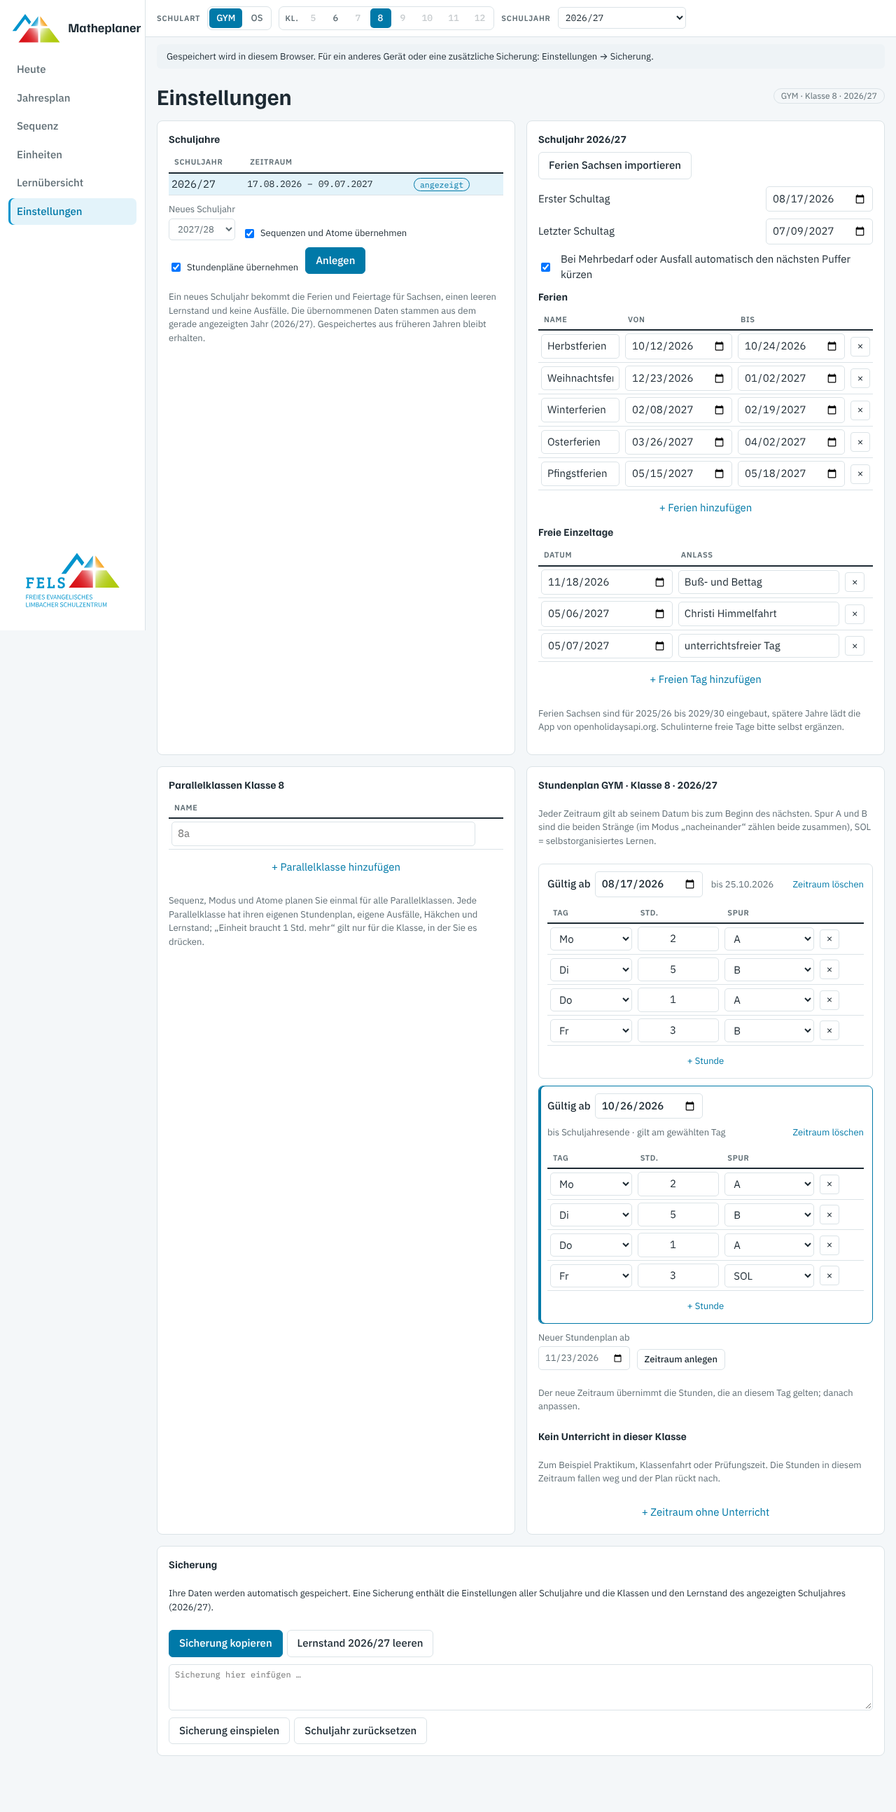
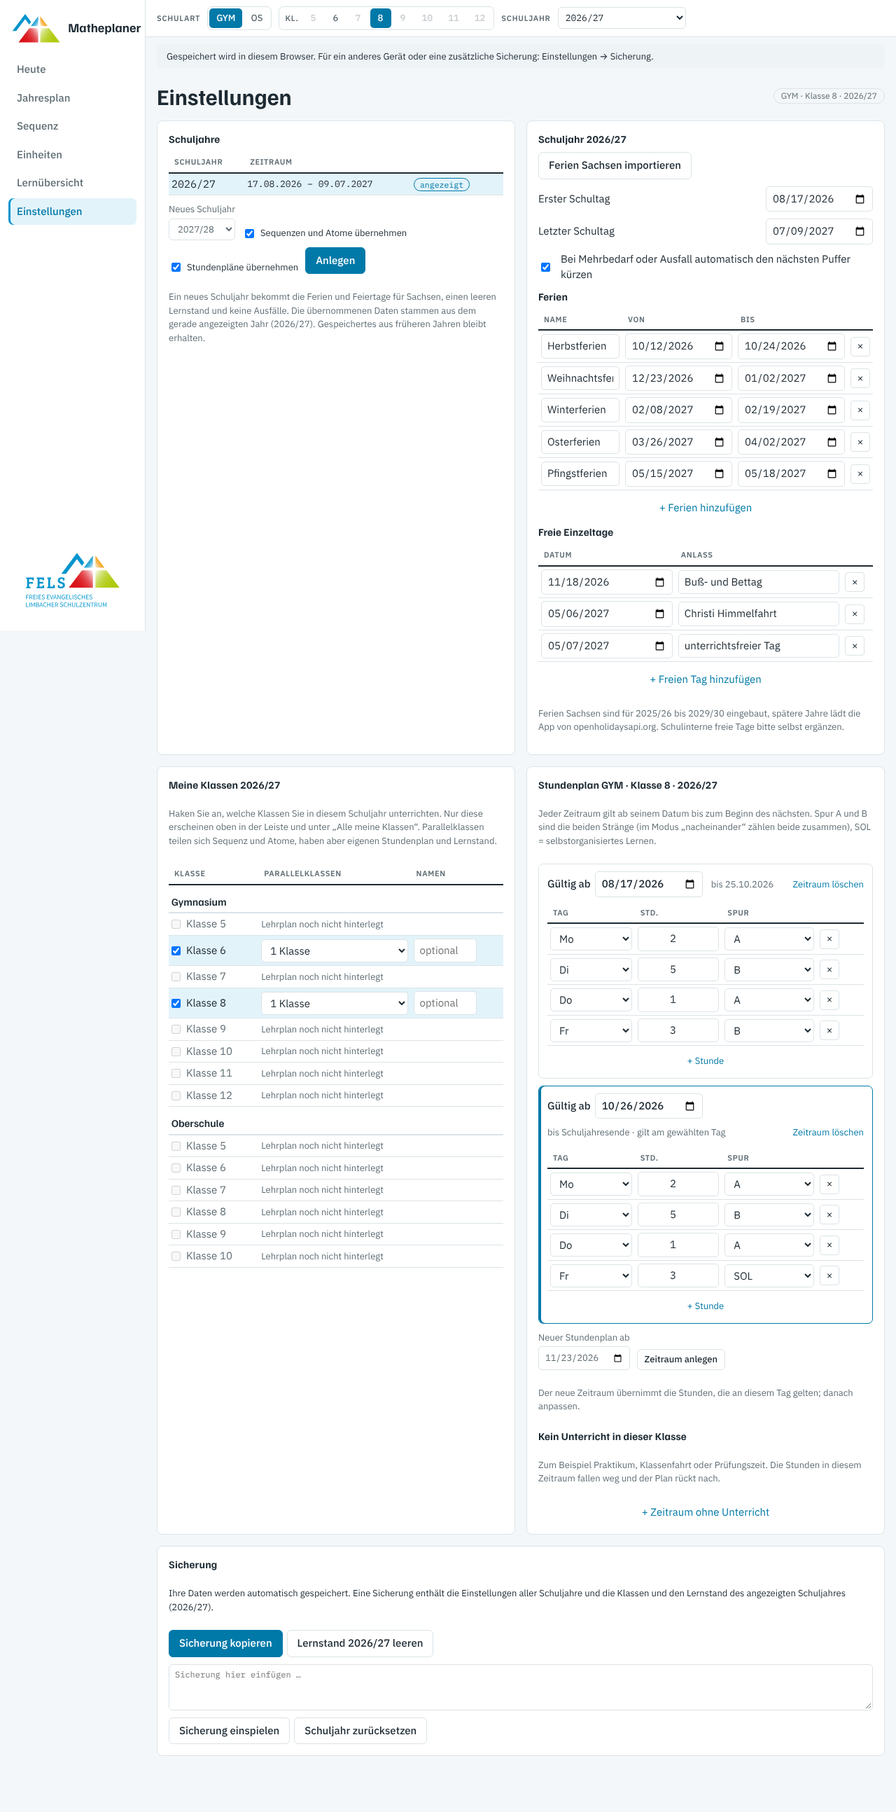
Einstellungen: Meine Klassen je Schuljahr
- Karte "Meine Klassen": Klassenstufen ankreuzen, je Stufe eine oder zwei
  Parallelklassen mit Namen; ersetzt die Parallelklassen-Karte
- Leiste oben bietet nur diese Klassen an, die übrigen sind ausgegraut;
  "Alle meine Klassen" zeigt alle Parallelklassen dieser Klassen
- Ohne Festlegung gelten alle Klassen mit Lehrplan; ein neues Schuljahr
  übernimmt die Auswahl; Hinweis mit Link, wenn keine Klasse gewählt ist
- Tests ergänzt

Claude-Session: https://claude.ai/code/session_01LsRvvx4N56vA7fn2jwzqzo

Changed region(s): [[0.1875, 0.4329, 0.5625, 0.7112]]

diff --git a/dist/app.js b/dist/app.js
@@ -92,13 +92,22 @@ UI.year = pickYear();
 const resetYearState = () => CLASSES.forEach(k => { S.cls[k] = defaultClass(k); GIDS.forEach(gid => { S.eng[gkey(k, gid)] = defaultEngine(); }); });
 resetYearState();
 /* Gewählte Klasse, sofern sie zur gewählten Schulart gehört; sonst null (z. B. Oberschule ohne Lehrplan). */
-const curClass = () => D.classes[UI.cls] && D.classes[UI.cls].type === UI.type ? UI.cls : null;
+const mineList = () => { const l = cal().classes; return Array.isArray(l) ? CLASSES.filter(k => l.includes(k)) : CLASSES.slice(); };
+const isMine = k => mineList().includes(k);
+/* Gewählte Klasse, sofern sie zur gewählten Schulart gehört und zu „Meine Klassen“; sonst null. */
+const curClass = () => D.classes[UI.cls] && D.classes[UI.cls].type === UI.type && isMine(UI.cls) ? UI.cls : null;
+/* Nach Änderungen an „Meine Klassen“ oder Schuljahr eine gültige Auswahl herstellen. */
+function fixSelection() {
+  if (curClass()) return;
+  const m = mineList(), k = m.find(c => D.classes[c].type === UI.type) || m[0];
+  if (k) { UI.cls = k; UI.type = D.classes[k].type; }
+}
 UI.gid = {};
 try { UI.gid = JSON.parse(localStorage.getItem("mp-gid") || "{}") || {}; } catch (e) {}
 /* Gewählte Parallelklasse als Schlüssel "kl8.a"; null, wenn keine Klasse gewählt ist. */
 function curG() { const k = curClass(); if (!k) return null; const id = UI.gid[k]; return gkey(k, S.cls[k].groups.some(x => x.id === id) ? id : S.cls[k].groups[0].id); }
 const hasLessons = g => (grp(g).tt || []).some(v => v.lessons && v.lessons.length);
-const myGroups = () => CLASSES.flatMap(groupsOf).filter(hasLessons);
+const myGroups = () => mineList().flatMap(groupsOf);
 const groupName = g => { const G = grp(g), C = S.cls[ck(g)]; return G.name || (C.groups.length > 1 ? `${D.classes[ck(g)].label} ${G.id}` : D.classes[ck(g)].label); };
 const fullLabel = g => `${(TYPES[D.classes[ck(g)].type] || {}).short || ""} · ${groupName(g.includes(".") ? g : gkey(g, "a"))}`;
 
@@ -349,7 +358,7 @@ function switchYear(id, remember) {
   for (const n of YEAR_DOCS) dirty[n] = false;
   UI.year = id; UI.confirm = null; UI.reveal = {}; undoStack = null;
   resetYearState();
-  touch(); subscribeYear(); render();
+  fixSelection(); touch(); subscribeYear(); render();
 }
 async function initDb() {
   try { db = window.claude && window.claude.use ? await window.claude.use("db") : null; } catch (e) { db = null; }
@@ -494,6 +503,7 @@ async function createYear(id, copySeq, copyTT) {
   const Y = r ? { id, start: r.start, end: r.end, holidays: r.holidays, free: r.free, source: r.source }
     : { id, start: `${y0}-08-15`, end: `${y0 + 1}-07-15`, holidays: [], free: [] };
   Y.engineStart = Y.start;
+  if (Array.isArray(cal().classes)) Y.classes = cal().classes.slice();
   const prev = { cls: clone(S.cls) };
   S.settings.years.push(Y); sortYears(S.settings.years); save("settings");
   UI.busy = false;
@@ -545,17 +555,23 @@ function unitLink(k, code, label) {
 }
 /* Kontext-Hinweis in den Überschriften; umgeschaltet wird oben in der Leiste. */
 function clsTabs() { const k = curG(); return `<span class="badge">${esc(k ? fullLabel(k) : (TYPES[UI.type] || {}).label || "")} · ${esc(yearLabel(cal().id))}</span>`; }
+function noClassMsg() {
+  const T = TYPES[UI.type] || {}, has = CLASSES.some(k => D.classes[k].type === UI.type);
+  if (!mineList().length) return `Sie haben für ${esc(yearLabel(cal().id))} noch keine Klassen festgelegt. <a href="#einstellungen">Einstellungen → Meine Klassen</a>`;
+  if (has) return `Sie unterrichten ${esc(yearLabel(cal().id))} keine Klasse der Schulart ${esc(T.label || "")}. <a href="#einstellungen">Einstellungen → Meine Klassen</a>`;
+  return `Für ${esc(T.label || "diese Schulart")} ist noch kein Lehrplan hinterlegt. Wählen Sie oben eine andere Schulart.`;
+}
 function noClassView(title) {
   const T = TYPES[UI.type] || {};
   return `<section><div class="vhead"><h1>${esc(title)}</h1>${clsTabs()}</div>
-    <div class="card"><p>Für ${esc(T.label || "diese Schulart")} ist noch kein Lehrplan hinterlegt. Wählen Sie oben eine andere Schulart oder Klasse.</p></div></section>`;
+    <div class="card"><p>${noClassMsg()}</p></div></section>`;
 }
 function renderCtx() {
   const el = document.getElementById("ctx"); if (!el) return;
   const T = TYPES[UI.type] || { grades: [] }, cur = curClass();
   el.innerHTML = `<span class="ctxl">Schulart</span><div class="seg small" role="group" aria-label="Schulart">${Object.entries(TYPES).map(([t, x]) => `<button type="button" aria-pressed="${UI.type === t}" data-act="type" data-v="${t}" title="${esc(x.label)}">${esc(x.short)}</button>`).join("")}</div>
     <div class="seg small grades" role="group" aria-label="Klassenstufe"><span class="lbl">Kl.</span>${T.grades.map(g => { const k = classFor(UI.type, g);
-      return `<button type="button" aria-pressed="${!!k && k === cur}" ${k ? `data-act="cls" data-k="${k}" title="${esc(D.classes[k].label)}"` : `disabled title="Klasse ${g}: Lehrplan noch nicht hinterlegt"`}>${g}</button>`; }).join("")}</div>
+      return `<button type="button" aria-pressed="${!!k && k === cur}" ${k && isMine(k) ? `data-act="cls" data-k="${k}" title="${esc(D.classes[k].label)}"` : k ? `disabled title="Klasse ${g} gehört nicht zu Ihren Klassen (Einstellungen → Meine Klassen)"` : `disabled title="Klasse ${g}: Lehrplan noch nicht hinterlegt"`}>${g}</button>`; }).join("")}</div>
     ${cur && S.cls[cur].groups.length > 1 ? `<div class="seg small" role="group" aria-label="Parallelklasse">${groupsOf(cur).map(g => `<button type="button" aria-pressed="${g === curG()}" data-act="grp" data-g="${g}">${esc(groupName(g))}</button>`).join("")}</div>` : ""}
     <span class="ctxl">Schuljahr</span><select id="yearsel" aria-label="Schuljahr">${S.settings.years.map(y => `<option value="${esc(y.id)}" ${y.id === cal().id ? "selected" : ""}>${esc(yearLabel(y.id))}</option>`).join("")}<option value="__new">+ Neues Schuljahr …</option></select>`;
 }
@@ -612,7 +628,7 @@ function viewToday() {
       <div class="seg small">${[["one", curG() ? fullLabel(curG()) : "Gewählte Klasse"], ["all", "Alle meine Klassen"]].map(([v, l]) => `<button type="button" aria-selected="${(v === "all") === UI.todayAll}" data-act="todaycls" data-v="${v}">${esc(l)}</button>`).join("")}</div>
     </div>
     ${show.length === 1 ? todayTiles(show[0], d) : ""}
-    ${show.length ? `<div class="tgrid ${show.length === 1 ? "one" : ""}">${show.map(k => todayCard(k, d)).join("")}</div>` : `<div class="card"><p>Für ${esc((TYPES[UI.type] || {}).label || "diese Schulart")} ist noch kein Lehrplan hinterlegt.</p></div>`}
+    ${show.length ? `<div class="tgrid ${show.length === 1 ? "one" : ""}">${show.map(k => todayCard(k, d)).join("")}</div>` : `<div class="card"><p>${noClassMsg()}</p></div>`}
   </section>`;
 }
 /* Kennzahlen der gewählten Klasse: aktuelle Einheit, heute fällig, ø Abruf, Reserve im Schuljahr. */
@@ -891,14 +907,21 @@ function yearOptions() {
   for (let y = y0 - 1; y <= y0 + 4; y++) { const id = `${y}-${String(y + 1).slice(2)}`; if (!have.has(id)) out.push(id); }
   return out;
 }
-function groupsCard(k) {
-  const C = S.cls[k], c = D.classes[k];
-  const rows = C.groups.map(G => `<tr><td><input data-act="gname" data-g="${gkey(k, G.id)}" value="${esc(G.name)}" placeholder="${esc(c.short + G.id)}" aria-label="Name der Parallelklasse"></td>
-    <td>${G.id !== "a" ? (UI.confirm === "gdel-" + k ? `<span class="confirm small">Parallelklasse mit Stundenplan und Lernstand entfernen?<button type="button" class="btn danger sm" data-act="gdel" data-k="${k}">Entfernen</button><button type="button" class="btn ghost sm" data-act="confirm" data-v="">Nein</button></span>` : `<button type="button" class="mini del" data-act="confirm" data-v="gdel-${k}" aria-label="Parallelklasse entfernen">×</button>`) : ""}</td></tr>`).join("");
-  return `<div class="card"><h3>Parallelklassen ${esc(c.label)}</h3>
-    <div class="tscroll"><table class="form"><thead><tr><th>Name</th><th></th></tr></thead><tbody>${rows}</tbody></table></div>
-    ${C.groups.length < GIDS.length ? `<button type="button" class="linkbtn" data-act="gadd" data-k="${k}">+ Parallelklasse hinzufügen</button>` : ""}
-    <p class="small muted">Sequenz, Modus und Atome planen Sie einmal für alle Parallelklassen. Jede Parallelklasse hat ihren eigenen Stundenplan, eigene Ausfälle, Häkchen und Lernstand; „Einheit braucht 1 Std. mehr“ gilt nur für die Klasse, in der Sie es drücken.</p></div>`;
+function myClassesCard() {
+  const Y = cal(), mine = mineList();
+  const rows = Object.entries(TYPES).map(([t, T]) => `<tr class="mtype"><td colspan="3">${esc(T.label)}</td></tr>` + T.grades.map(g => {
+    const k = classFor(t, g);
+    if (!k) return `<tr class="mna"><td><label class="chk"><input type="checkbox" disabled> Klasse ${g}</label></td><td colspan="2" class="small muted">Lehrplan noch nicht hinterlegt</td></tr>`;
+    const on = mine.includes(k), C = S.cls[k], n = C.groups.length;
+    const names = on ? C.groups.map(G => `<input data-act="gname" data-g="${gkey(k, G.id)}" value="${esc(G.name)}" placeholder="${esc(n > 1 ? D.classes[k].short + G.id : "optional")}" aria-label="Name der Parallelklasse ${esc(G.id)}">`).join("") : "";
+    const confirm = UI.confirm === "gdel-" + k ? `<span class="confirm small">${esc(groupName(gkey(k, C.groups[1].id)))} mit Stundenplan und Lernstand entfernen?<button type="button" class="btn danger sm" data-act="gdel" data-k="${k}">Entfernen</button><button type="button" class="btn ghost sm" data-act="confirm" data-v="">Nein</button></span>` : "";
+    return `<tr class="${on ? "on" : ""}"><td><label class="chk"><input type="checkbox" data-act="mine" data-k="${k}" ${on ? "checked" : ""}> ${esc(D.classes[k].label)}</label></td>
+      <td>${on ? `<select data-act="gcount" data-k="${k}" aria-label="Anzahl Parallelklassen"><option value="1" ${n === 1 ? "selected" : ""}>1 Klasse</option><option value="2" ${n === 2 ? "selected" : ""}>2 Parallelklassen</option></select>` : ""}</td>
+      <td><div class="gnames">${names}</div>${confirm}</td></tr>`;
+  }).join("")).join("");
+  return `<div class="card myclasses"><h3>Meine Klassen ${esc(yearLabel(Y.id))}</h3>
+    <p class="small muted">Haken Sie an, welche Klassen Sie in diesem Schuljahr unterrichten. Nur diese erscheinen oben in der Leiste und unter „Alle meine Klassen“. Parallelklassen teilen sich Sequenz und Atome, haben aber eigenen Stundenplan und Lernstand.</p>
+    <div class="tscroll"><table class="form"><thead><tr><th>Klasse</th><th>Parallelklassen</th><th>Namen</th></tr></thead><tbody>${rows}</tbody></table></div></div>`;
 }
 function ttCard(k) {
   const C = grp(k), vs = sortTT(C.tt), Y = cal();
@@ -959,7 +982,8 @@ function viewSettings() {
         <h3>Freie Einzeltage</h3><div class="tscroll"><table class="form"><thead><tr><th>Datum</th><th>Anlass</th><th></th></tr></thead><tbody>${fr}</tbody></table></div>
         <button type="button" class="linkbtn" data-act="freeadd">+ Freien Tag hinzufügen</button>
         <p class="small muted">Ferien Sachsen sind für 2025/26 bis 2029/30 eingebaut, spätere Jahre lädt die App von openholidaysapi.org. Schulinterne freie Tage bitte selbst ergänzen.</p></div>
-      ${k ? groupsCard(ck(k)) + ttCard(k) : `<div class="card"><h3>Stundenplan</h3><p class="small muted">Für ${esc((TYPES[UI.type] || {}).label || "diese Schulart")} ist noch kein Lehrplan hinterlegt.</p></div>`}
+      ${myClassesCard()}
+      ${k ? ttCard(k) : `<div class="card"><h3>Stundenplan</h3><p class="small muted">Für ${esc((TYPES[UI.type] || {}).label || "diese Schulart")} ist noch kein Lehrplan hinterlegt.</p></div>`}
     </div>
     <div class="card"><h3>Sicherung</h3>
       <p class="small">Ihre Daten werden automatisch gespeichert. Eine Sicherung enthält die Einstellungen aller Schuljahre und die Klassen und den Lernstand des angezeigten Schuljahres (${esc(yearLabel(Y.id))}).</p>
@@ -1032,6 +1056,21 @@ window.addEventListener("hashchange", () => {
 });
 
 /* ---------------- events ---------------- */
+function addGroup(k) {
+  const C = S.cls[k]; if (C.groups.length >= GIDS.length) return;
+  const id = GIDS.find(x => !C.groups.some(G => G.id === x)), base = C.groups[0];
+  const snap = snapshotFor(k);
+  C.groups.push(newGroup(id, "", base.tt.map(v => ({ id: uid(), frm: v.frm, lessons: cloneLessons(v.lessons) }))));
+  S.eng[gkey(k, id)] = defaultEngine();
+  UI.gid[k] = id; try { localStorage.setItem("mp-gid", JSON.stringify(UI.gid)); } catch (e) {}
+  undoStack = snap; commit(k, { eng: true }); toast("Parallelklasse angelegt. Der Stundenplan ist kopiert, bitte anpassen.", true);
+}
+function removeGroup(k) {
+  const C = S.cls[k]; if (C.groups.length < 2) return;
+  const snap = snapshotFor(k), gone = C.groups.pop();
+  S.eng[gkey(k, gone.id)] = defaultEngine(); delete UI.gid[k]; UI.confirm = null;
+  undoStack = snap; commit(k, { eng: true }); toast("Parallelklasse entfernt.", true);
+}
 const ttVersion = (g, id) => (grp(g).tt || []).find(v => v.id === id);
 function setSeq(k, fn) { const C = S.cls[k]; fn(C.seq); commit(k); }
 document.addEventListener("click", ev => {
@@ -1048,7 +1087,7 @@ document.addEventListener("click", ev => {
     case "type": {
       const t = b.dataset.v; if (!TYPES[t]) break;
       UI.type = t; UI.editAtom = null; UI.confirm = null;
-      if (D.classes[UI.cls].type !== t) { const g = D.classes[UI.cls].grade; const k = classFor(t, g) || CLASSES.find(c => D.classes[c].type === t); if (k) UI.cls = k; }
+      if (D.classes[UI.cls].type !== t || !isMine(UI.cls)) { const g = D.classes[UI.cls].grade, k2 = classFor(t, g); const k = k2 && isMine(k2) ? k2 : mineList().find(c => D.classes[c].type === t); if (k) UI.cls = k; }
       try { localStorage.setItem("mp-type", UI.type); localStorage.setItem("mp-cls", UI.cls); } catch (e) {}
       if (/^u-/.test(route())) { location.hash = "#einheiten"; break; }
       render(); break;
@@ -1056,21 +1095,8 @@ document.addEventListener("click", ev => {
     case "todaycls": UI.todayAll = b.dataset.v === "all"; try { localStorage.setItem("mp-today", UI.todayAll ? "all" : "one"); } catch (e) {} render(); break;
     case "year": switchYear(b.dataset.v, true); break;
     case "grp": { const g = b.dataset.g; UI.gid[ck(g)] = gidOf(g); try { localStorage.setItem("mp-gid", JSON.stringify(UI.gid)); } catch (e) {} UI.reveal = {}; UI.confirm = null; render(); break; }
-    case "gadd": {
-      const C = S.cls[k]; if (C.groups.length >= GIDS.length) break;
-      const id = GIDS.find(x => !C.groups.some(G => G.id === x)), base = C.groups[0];
-      const snap = snapshotFor(k);
-      C.groups.push(newGroup(id, "", base.tt.map(v => ({ id: uid(), frm: v.frm, lessons: cloneLessons(v.lessons) }))));
-      S.eng[gkey(k, id)] = defaultEngine();
-      UI.gid[k] = id; try { localStorage.setItem("mp-gid", JSON.stringify(UI.gid)); } catch (e) {}
-      undoStack = snap; commit(k, { eng: true }); toast("Parallelklasse angelegt. Der Stundenplan ist kopiert, bitte anpassen.", true); break;
-    }
-    case "gdel": {
-      const C = S.cls[k]; if (C.groups.length < 2) break;
-      const snap = snapshotFor(k), gone = C.groups.pop();
-      S.eng[gkey(k, gone.id)] = defaultEngine(); delete UI.gid[k]; UI.confirm = null;
-      undoStack = snap; commit(k, { eng: true }); toast("Parallelklasse entfernt.", true); break;
-    }
+    case "gadd": addGroup(k); break;
+    case "gdel": removeGroup(k); break;
     case "yearadd": { const id = document.getElementById("newyear").value; createYear(id, document.getElementById("ny-seq").checked, document.getElementById("ny-tt").checked); break; }
     case "ydel": { const id = b.dataset.v; if (id === UI.year) break; S.settings.years = S.settings.years.filter(y => y.id !== id); UI.confirm = null; commit(null, { settings: true }); toast(`Schuljahr ${yearLabel(id)} aus der Liste entfernt.`); break; }
     case "ferien": importFerien(); break;
@@ -1175,6 +1201,19 @@ document.addEventListener("change", ev => {
     case "free": cal().free[i][f] = t.value; commit(null, { settings: true }); break;
     case "tl": { const v = ttVersion(curG(), t.dataset.v), row = v && v.lessons[i]; if (!row) break; row[f] = f === "track" ? t.value : Math.max(1, Math.round(+t.value || 1)); commit(k); break; }
     case "ttfrm": { const G = grp(curG()), v = ttVersion(curG(), t.dataset.v); if (!v || !t.value) break; if (G.tt.some(x => x !== v && x.frm === t.value)) { toast("Ab diesem Datum gibt es schon einen Stundenplan."); render(); break; } v.frm = t.value; sortTT(G.tt); commit(k); break; }
+    case "mine": {
+      const Y = cal(), l = mineList(), kk = t.dataset.k;
+      Y.classes = t.checked ? CLASSES.filter(c => c === kk || l.includes(c)) : l.filter(c => c !== kk);
+      if (t.checked) { UI.cls = kk; UI.type = D.classes[kk].type; }
+      fixSelection(); try { localStorage.setItem("mp-cls", UI.cls); localStorage.setItem("mp-type", UI.type); } catch (e) {}
+      commit(null, { settings: true }); break;
+    }
+    case "gcount": {
+      const kk = t.dataset.k, n = +t.value, C = S.cls[kk];
+      if (n === 2 && C.groups.length < 2) addGroup(kk);
+      else if (n === 1 && C.groups.length > 1) { UI.confirm = "gdel-" + kk; render(); }
+      break;
+    }
     case "gname": { const G = grp(t.dataset.g); G.name = t.value.trim(); commit(ck(t.dataset.g)); break; }
     case "off": { const o = grp(curG()).off[i]; if (!o) break; o[f] = t.value; commit(k); break; }
   }

diff --git a/src/test.js b/src/test.js
@@ -117,7 +117,7 @@ const ok = (c, msg) => { if (!c) { console.log('FAIL', msg); process.exitCode = 
   // Parallelklassen: gemeinsame Sequenz, eigener Stundenplan, eigene Abweichungen und eigener Lernstand
   await p.setViewportSize({ width: 1280, height: 900 });
   await p.evaluate(() => location.hash = 'einstellungen'); await p.waitForTimeout(150);
-  await p.click('[data-act="gadd"]'); await p.waitForTimeout(150);
+  await p.selectOption('[data-act="gcount"][data-k="kl8"]', '2'); await p.waitForTimeout(150);
   ok(await p.evaluate(() => window.__mp.S.cls.kl8.groups.length === 2), 'Parallelklasse 8b angelegt');
   await p.fill('[data-act="gname"][data-g="kl8.a"]', '8a'); await p.dispatchEvent('[data-act="gname"][data-g="kl8.a"]', 'change');
   await p.fill('[data-act="gname"][data-g="kl8.b"]', '8b'); await p.dispatchEvent('[data-act="gname"][data-g="kl8.b"]', 'change'); await p.waitForTimeout(100);
@@ -154,6 +154,23 @@ const ok = (c, msg) => { if (!c) { console.log('FAIL', msg); process.exitCode = 
   await p.click('[data-act="todaycls"][data-v="one"]'); await p.waitForTimeout(100);
   await p.click('#ctx [data-act="grp"][data-g="kl8.a"]'); await p.waitForTimeout(100);
   ok((await p.innerText('.tcard h2')) === '8a', 'Umschalten auf 8a');
+  // Meine Klassen: Klasse 6 abwählen
+  await p.evaluate(() => location.hash = 'einstellungen'); await p.waitForTimeout(150);
+  await p.uncheck('[data-act="mine"][data-k="kl6"]'); await p.waitForTimeout(150);
+  ok(await p.evaluate(() => JSON.stringify(window.__mp.cal().classes) === '["kl8"]'), 'Meine Klassen 2026/27: nur Klasse 8');
+  ok(await p.$eval('#ctx [title*="nicht zu Ihren Klassen"]', e => e.disabled && e.textContent === '6'), 'Leiste: Klasse 6 ausgegraut');
+  await p.evaluate(() => location.hash = 'heute'); await p.waitForTimeout(150);
+  await p.click('[data-act="todaycls"][data-v="all"]'); await p.waitForTimeout(100);
+  ok(JSON.stringify(await p.$$eval('.tcard h2', hs => hs.map(h => h.textContent))) === JSON.stringify(['GYM · 8a', 'GYM · 8b']), 'Alle meine Klassen: nur 8a und 8b');
+  await p.click('[data-act="todaycls"][data-v="one"]'); await p.waitForTimeout(100);
+  await p.evaluate(() => location.hash = 'einstellungen'); await p.waitForTimeout(150);
+  await p.selectOption('[data-act="gcount"][data-k="kl8"]', '1'); await p.waitForTimeout(100);
+  ok(await p.$('[data-act="gdel"][data-k="kl8"]') !== null, 'Zurück auf 1 Klasse fragt nach');
+  await p.click('[data-act="confirm"][data-v=""]'); await p.waitForTimeout(100);
+  await p.check('[data-act="mine"][data-k="kl6"]'); await p.waitForTimeout(150);
+  ok(await p.evaluate(() => window.__mp.S.cls.kl8.groups.length === 2 && window.__mp.cal().classes.length === 2), 'Klasse 6 wieder dabei, 8b bleibt erhalten');
+  await p.screenshot({ path: path.join(OUT, 's_meineklassen.png'), fullPage: true });
+
   await p.waitForTimeout(900);
 
   // Schwierigkeitsstufen nach Stabilität

diff --git a/dist/index.html b/dist/index.html
@@ -158,6 +158,16 @@ label.chk{justify-content:flex-start}
 .rate.r1 b,.r1t{color:var(--r1)} .rate.r2 b,.r2t{color:var(--r2)} .rate.r3 b,.r3t{color:var(--r3)} .rate.r4 b,.r4t{color:var(--r4)}
 .rate:hover{border-color:currentColor}
 
+/* Meine Klassen */
+.myclasses tr.mtype td{font-family:var(--f-display);font-weight:600;padding-top:12px;border-bottom:2px solid var(--line)}
+.myclasses tr.mna td{color:var(--muted)}
+.myclasses tr.on td{background:var(--accent-bg)}
+.myclasses label.chk{display:flex;gap:8px;align-items:center;white-space:nowrap}
+.myclasses .gnames{display:flex;gap:6px;flex-wrap:wrap}
+.myclasses .gnames input{width:90px}
+.myclasses select{width:auto}
+.myclasses input[type=checkbox]{width:auto;margin:0}
+
 /* tiles (Heute) */
 .tiles{display:grid;grid-template-columns:repeat(auto-fit,minmax(min(100%,150px),1fr));gap:10px}
 .tile{border-radius:10px;padding:12px 14px;color:#fff;display:grid;gap:2px;text-decoration:none;min-width:0}

diff --git a/README.md b/README.md
@@ -37,7 +37,10 @@ NODE_PATH=$(npm root -g) node src/test.js   # Screenshots nach docs/screenshots
 - **Schulart (GYM/OS), Klassenstufe und Schuljahr** werden oben in der Leiste gewählt. Stufen ohne hinterlegten Lehrplan sind
   ausgegraut; Jahresplan, Sequenz, Einheiten, Lernübersicht,
   Stundenplan und Heute-Ansicht folgen dieser Auswahl („Alle meine Klassen“ zeigt auf der Heute-Seite alle Klassen mit Stunden im Stundenplan).
-- **Parallelklassen** (höchstens 2 je Stufe, z. B. 8a/8b; Einstellungen → Parallelklassen): Sequenz, Modus und Atome
+- **Meine Klassen** (Einstellungen, je Schuljahr): welche Klassenstufen Sie unterrichten, ob mit einer oder zwei
+  Parallelklassen und wie diese heißen. Nur diese Klassen sind oben wählbar und erscheinen unter „Alle meine Klassen“;
+  ein neues Schuljahr übernimmt die Auswahl. Ohne Festlegung gelten alle Klassen mit hinterlegtem Lehrplan.
+- **Parallelklassen** (höchstens 2 je Stufe, z. B. 8a/8b; Einstellungen → Meine Klassen): Sequenz, Modus und Atome
   werden einmal für alle geplant. Jede Parallelklasse hat eigenen Stundenplan, Zeiträume ohne Unterricht, Ausfälle,
   Häkchen und Lernstand. „Einheit braucht 1 Std. mehr“ und automatische Pufferkürzung werden als Abweichung nur dieser
   Klasse gespeichert und in der Sequenz neben den Stunden angezeigt (z. B. „8b: +1“). Gewechselt wird oben in der Leiste.
@@ -61,7 +64,7 @@ NODE_PATH=$(npm root -g) node src/test.js   # Screenshots nach docs/screenshots
   - Stundenplan je Klasse in Zeiträumen („gültig ab“); dazu Zeiträume ohne Unterricht (Praktikum, Klassenfahrt).
   - Sicherung als Text oder Datei.
 
-Gespeichert wird in der Datenbank des Artefakts: `planner/settings` (Schuljahre, Einstellungen der Wiederholung) und je Schuljahr
+Gespeichert wird in der Datenbank des Artefakts: `planner/settings` (Schuljahre mit „Meine Klassen“ in `years[].classes`, Einstellungen der Wiederholung) und je Schuljahr
 `jahr-<id>/kl6`, `jahr-<id>/kl8`, `jahr-<id>/engine-kl6`, `jahr-<id>/engine-kl8`. Das aus der Zeit vor den Schuljahren übernommene
 Jahr 2026/27 nutzt weiter `planner/kl6`, `planner/kl8`, `engine/kl6`, `engine/kl8`; alte Stundenpläne werden beim Laden in Zeiträume umgewandelt.
 
